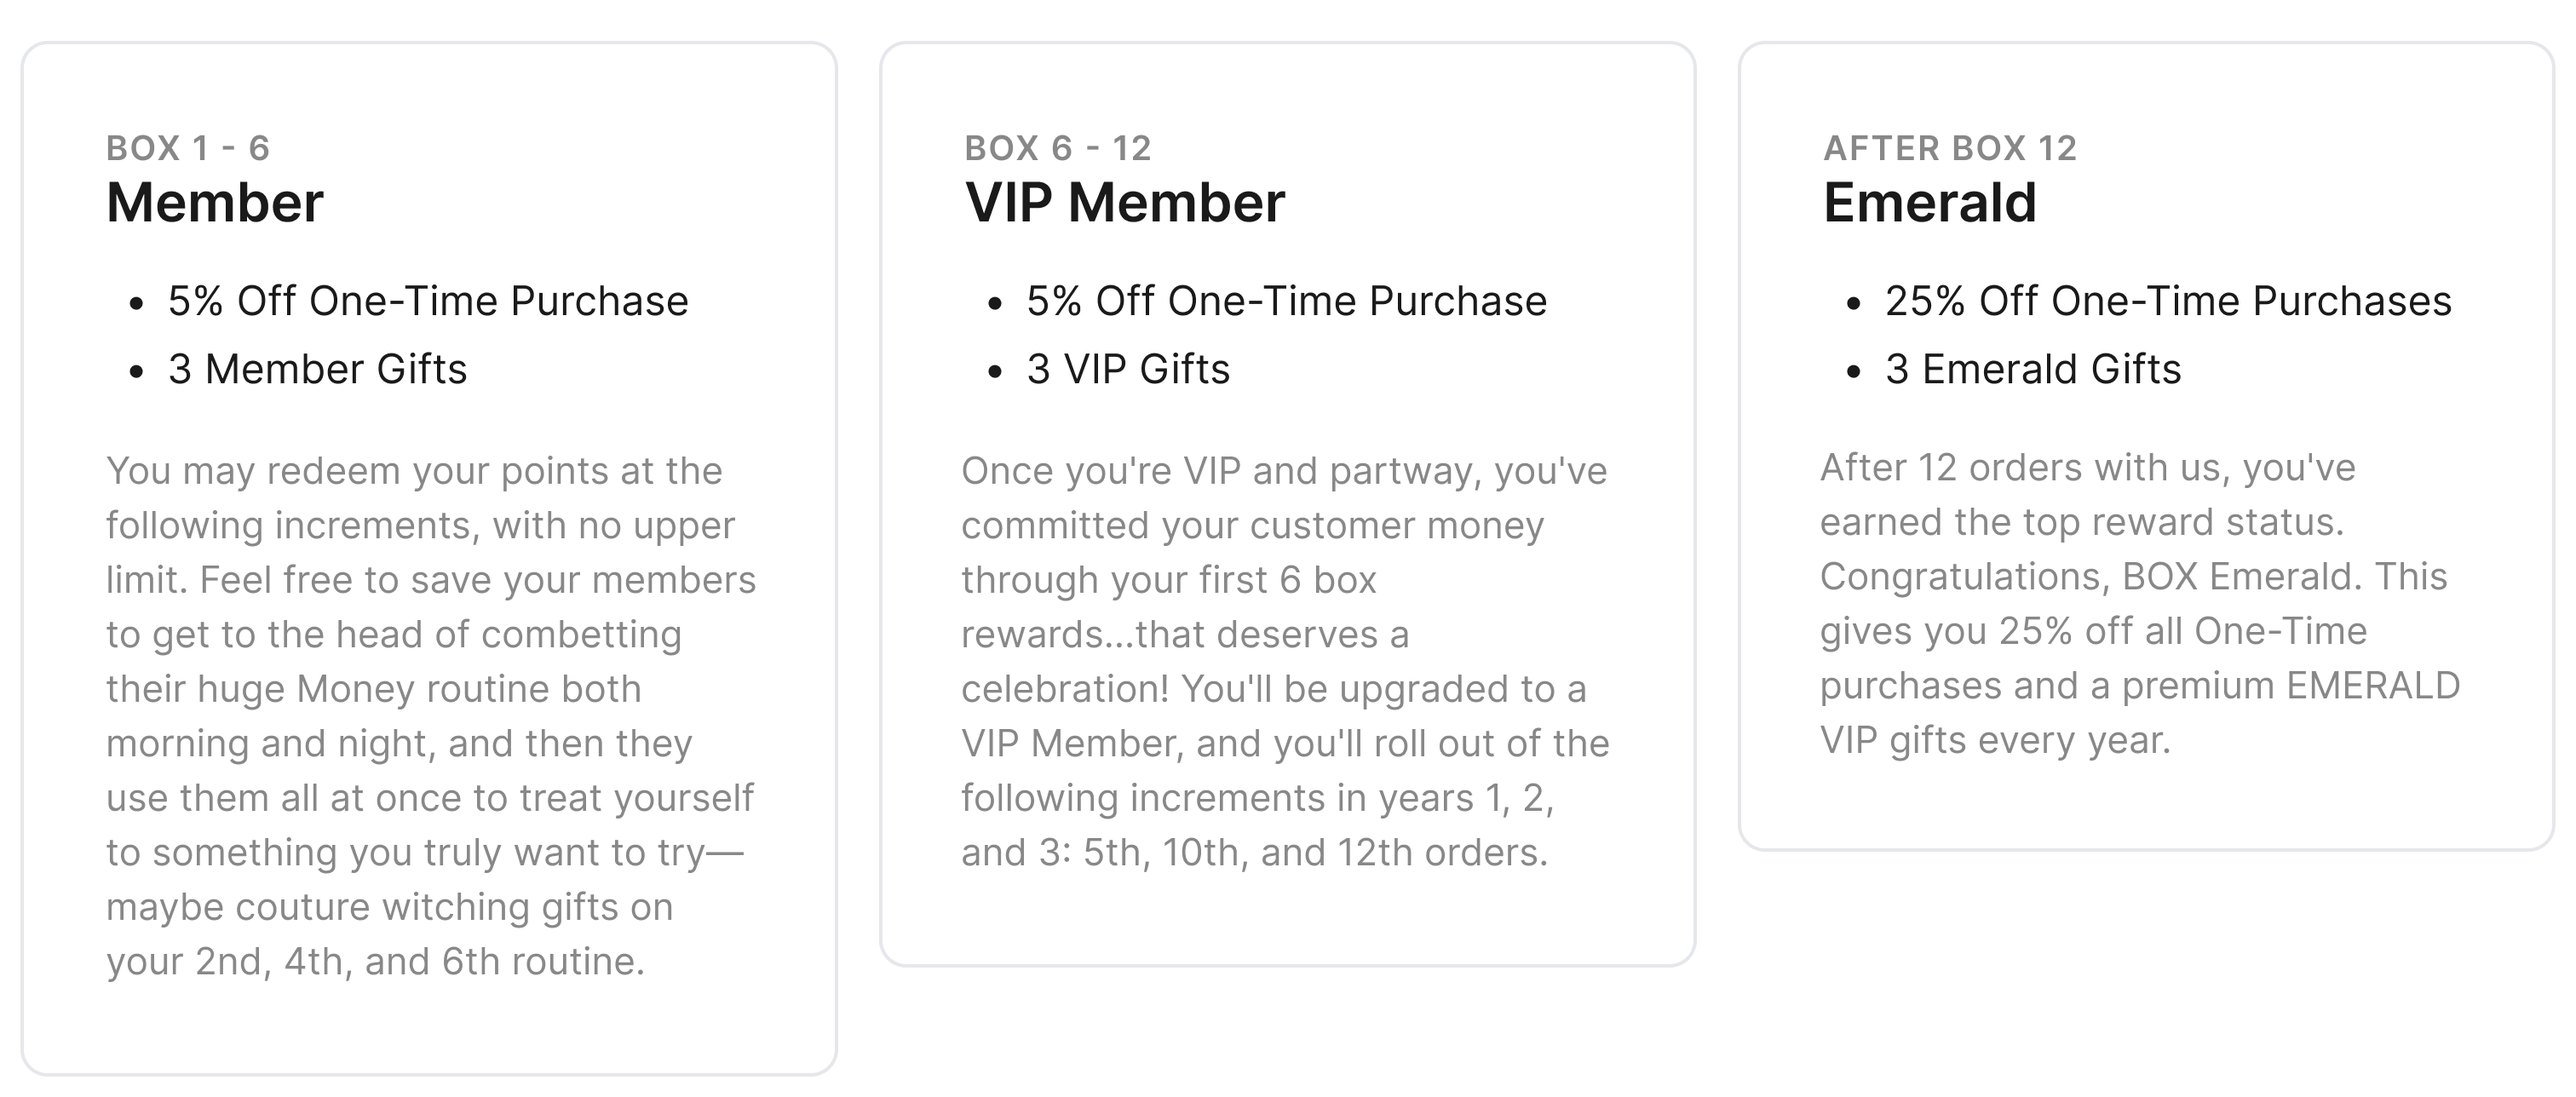
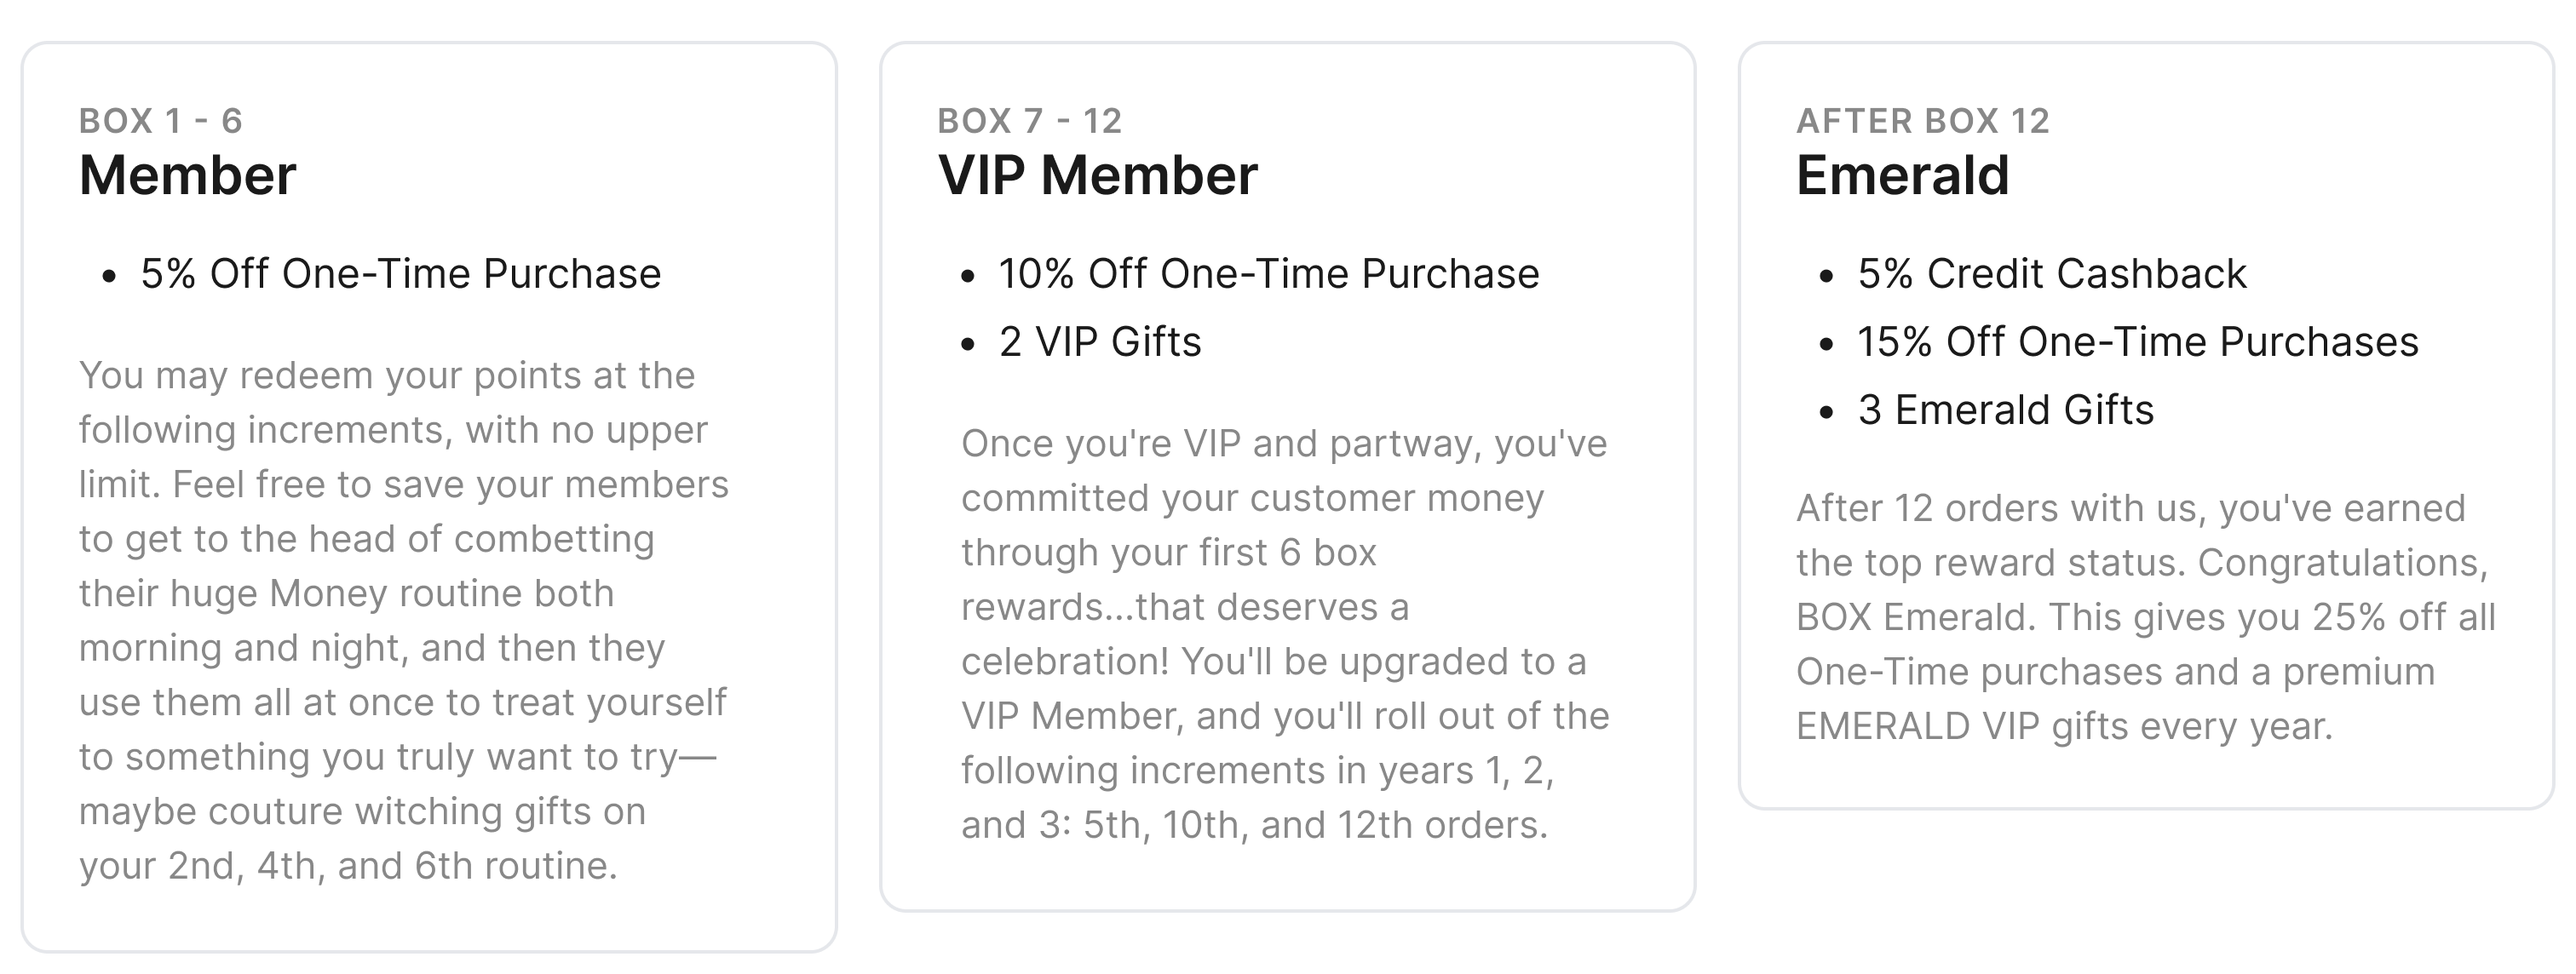
Slide 4: dotted Loyalty fanouts (challenges + benefits) and toggle behaviour
- Click Loyalty (pre-reroute) to fan out 5 dotted "challenges" describing the current
  loyalty framework's shortcomings; click again to collapse them back into Loyalty
- Click Loyalty (post-reroute) to fan out 4 dotted "benefits" upward describing what
  merchants want from the new framework; click again to collapse
- Refactor spawn into a shared spawnLoyaltyFanout() helper with state-object slots
- Camera pans toward the fan on spawn, and back on collapse
- Sub-node outline rendered as inline SVG <rect> so dot rhythm matches the connector
  edges exactly (1.5px stroke, 0.1×5 dasharray, round caps → ~3.5px gap)
- Solid white sub-node background; clicks on synthetic IDs are no-ops

diff --git a/app.js b/app.js
@@ -639,6 +639,18 @@ function render(graph) {
   // When true, slide 4 owns the Loyalty card's Recharge display —
   // syncLoyaltyRechargeStack() must not touch it.
   let slide4RechargeSwapActive = false;
+  /**
+   * Shared state container for Loyalty's "fanout" sub-nodes — populated by spawnLoyaltyFanout().
+   *  - challenges: 5 dotted nodes shown when clicking Loyalty in the pre-reroute state
+   *  - benefits:   4 dotted nodes shown when clicking Loyalty in the post-reroute state
+   * Each slot holds its own cleanup, collapse, and in-flight animation flag.
+   * @typedef {{cleanup: null | (()=>void), collapse: null | (()=>void), collapsing: boolean}} FanoutState
+   * @type {{challenges: FanoutState, benefits: FanoutState}}
+   */
+  const slide4Fanouts = {
+    challenges: { cleanup: null, collapse: null, collapsing: false },
+    benefits:   { cleanup: null, collapse: null, collapsing: false },
+  };
   // Snapshots of shared graph state taken before slide 4 modifies it, so slide 2 is unaffected.
   /** @type {Set<string> | null} */
   let slide4VisibleIdsSnapshot = null;
@@ -1452,6 +1464,9 @@ function render(graph) {
     const btn = t?.closest?.(".node");
     if (!(btn instanceof HTMLButtonElement)) return;
     const id = btn.dataset.id || null;
+    // Synthetic slide-4 fanout nodes (challenges + benefits) are decorative —
+    // clicks should not change selection.
+    if (id?.startsWith("challenge-") || id?.startsWith("benefit-")) return;
     if (id === "merchant") {
       reveal(["repeat", "pre", "measure"]);
     } else if (id && HUB_IDS.has(id)) {
@@ -1476,6 +1491,16 @@ function render(graph) {
     if (id === "subscriptions" && window.slideshowPagination?.index === 3 &&
         slide4SubscriptionsRevealed && !slide4LoyaltyRerouted) {
       rerouteLoyaltyToRetention();
+    }
+    // Slide 4 Loyalty toggle: pre-reroute fans out 5 "challenges", post-reroute fans
+    // out 4 "benefits". A second click on Loyalty collapses whichever set is showing.
+    if (id === "loyalty" && window.slideshowPagination?.index === 3) {
+      const fan = slide4LoyaltyRerouted ? slide4Fanouts.benefits : slide4Fanouts.challenges;
+      const spawn = slide4LoyaltyRerouted ? spawnLoyaltyBenefits : spawnLoyaltyChallenges;
+      if (!fan.collapsing) {
+        if (fan.cleanup) fan.collapse?.();
+        else spawn();
+      }
     }
     // Loyalty click after rain: Recharge pops + confetti; main artwork exits automatically after the pop.
     if (id === "loyalty" && emojiRainEndedForLoyalty && !loyaltyRechargeRevealUnlocked) {
@@ -1544,8 +1569,197 @@ function render(graph) {
   // Original Loyalty world position (must match data.json pos).
   const LOYALTY_ORIGIN_POS   = { x: 180, y: 685 };
 
+  /**
+   * Slide 4: when Loyalty (still connected to Pre-purchase) is clicked, fan out 5 dashed
+   * "challenge" nodes describing the current loyalty framework's shortcomings. The nodes
+   * shoot from Loyalty's position outward and are cleaned up on reroute or slide leave.
+   */
+  /**
+   * Generic Loyalty fanout spawner. Used by both Loyalty-click expansions:
+   *   pre-reroute → "challenges" (downward fan, 5 nodes)
+   *   post-reroute → "benefits"  (upward fan, 4 nodes)
+   * Installs cleanup + collapse handlers onto the supplied state slot, and pans the
+   * camera midway between Loyalty and the far edge of the fan.
+   *
+   * @param {object} cfg
+   * @param {FanoutState} cfg.state - slot to populate with cleanup/collapse/collapsing
+   * @param {Array<{id:string,title:string,angle:number}>} cfg.items - one entry per node (angles in degrees, 0°=right / 90°=down)
+   * @param {number} cfg.radius
+   */
+  const spawnLoyaltyFanout = ({ state, items, radius }) => {
+    if (state.cleanup) return;
+    const loyaltyBtn = nodeEls.get("loyalty");
+    const loyaltyNode = nodeById.get("loyalty");
+    if (!loyaltyBtn || !loyaltyNode) return;
+    const origin = { x: loyaltyNode.pos.x, y: loyaltyNode.pos.y };
+    // Snapshot the camera transform so collapse can pan back to the same view.
+    const transformBeforeSpawn = { ...transformRef.current };
+
+    /** @type {HTMLButtonElement[]} */
+    const createdNodes = [];
+    /** @type {SVGPathElement[]} */
+    const createdEdges = [];
+    /** Track each node's target world pos so collapse + pan can compute geometry. */
+    const targetPositions = items.map((it) => {
+      const rad = (it.angle * Math.PI) / 180;
+      return { x: origin.x + radius * Math.cos(rad), y: origin.y + radius * Math.sin(rad) };
+    });
+
+    items.forEach((c, i) => {
+      const { x, y } = targetPositions[i];
+
+      // Register synthetic node so updateAllEdges() can keep its connector tracking Loyalty.
+      nodeById.set(c.id, /** @type {any} */ ({
+        id: c.id, category: "pre", title: c.title, pos: { x, y },
+      }));
+      visibleIds.add(c.id);
+
+      const btn = document.createElement("button");
+      btn.type = "button";
+      btn.className = "node node--challenge";
+      btn.dataset.id = c.id;
+      btn.dataset.muted = "false";
+      btn.dataset.hidden = "false";
+      btn.style.left = `${x}px`;
+      btn.style.top  = `${y}px`;
+      btn.setAttribute("aria-label", c.title);
+
+      // Dotted outline rendered as an inline SVG so the dot rhythm matches the connectors.
+      const ns = "http://www.w3.org/2000/svg";
+      const outline = document.createElementNS(ns, "svg");
+      outline.setAttribute("class", "node__dotOutline");
+      outline.setAttribute("aria-hidden", "true");
+      outline.setAttribute("preserveAspectRatio", "none");
+      outline.appendChild(document.createElementNS(ns, "rect"));
+      btn.appendChild(outline);
+
+      // Title sits above the outline (z-index in CSS).
+      const label = document.createElement("span");
+      label.className = "node__challengeLabel";
+      label.textContent = c.title;
+      btn.appendChild(label);
+
+      // Start visually anchored to Loyalty's center, scaled down + invisible.
+      const dx = origin.x - x;
+      const dy = origin.y - y;
+      btn.style.transform = `translate(-50%, -50%) translate(${dx}px, ${dy}px) scale(0.4)`;
+      btn.style.opacity = "0";
+
+      els.nodes.appendChild(btn);
+      createdNodes.push(btn);
+
+      // Stagger reveal — fly to target.
+      const delay = 80 + i * 90;
+      window.setTimeout(() => {
+        btn.style.transform = "translate(-50%, -50%) scale(1)";
+        btn.style.opacity = "1";
+      }, delay);
+
+      // Dotted connector edge from Loyalty to this sub-node.
+      const p = document.createElementNS("http://www.w3.org/2000/svg", "path");
+      p.setAttribute("class", "edge edge--challenge");
+      p.dataset.a = "loyalty";
+      p.dataset.b = c.id;
+      p.setAttribute("d", edgePath(origin, { x, y }));
+      p.setAttribute("stroke", "rgba(0, 0, 0, 0.34)");
+      p.setAttribute("stroke-width", "1");
+      p.setAttribute("stroke-dasharray", "0.1 5");
+      p.setAttribute("stroke-linecap", "round");
+      p.setAttribute("fill", "none");
+      p.style.opacity = "0";
+      p.style.transition = "opacity 320ms ease";
+      els.edges.appendChild(p);
+      createdEdges.push(p);
+      window.setTimeout(() => { p.style.opacity = "1"; }, delay + 200);
+    });
+
+    // Pan the canvas so the fan comes into view alongside Loyalty. We center on the
+    // mean y of the fan's target positions — works for both downward and upward fans.
+    const stageR = els.stage.getBoundingClientRect();
+    if (stageR.width > 0 && stageR.height > 0) {
+      const meanY = targetPositions.reduce((s, p) => s + p.y, 0) / targetPositions.length;
+      const panTargetY = (origin.y + meanY) / 2;
+      const panTarget = centerToTransform({
+        canvas: graph.canvas,
+        stageRect: stageR,
+        targetWorld: { x: origin.x, y: panTargetY },
+        scale: 1,
+      });
+      animateTo(transformRef, els.viewport, panTarget, 700);
+    }
+
+    state.cleanup = () => {
+      for (const n of createdNodes) n.remove();
+      for (const e of createdEdges) e.remove();
+      for (const c of items) {
+        nodeById.delete(c.id);
+        visibleIds.delete(c.id);
+      }
+      state.cleanup = null;
+      state.collapse = null;
+      state.collapsing = false;
+    };
+
+    // Animated reverse: nodes shrink back to Loyalty, edges fade out, camera pans back.
+    state.collapse = () => {
+      if (state.collapsing || !state.cleanup) return;
+      state.collapsing = true;
+
+      items.forEach((_c, i) => {
+        const node = createdNodes[i];
+        if (!node) return;
+        const dx = origin.x - parseFloat(node.style.left);
+        const dy = origin.y - parseFloat(node.style.top);
+        node.style.transform = `translate(-50%, -50%) translate(${dx}px, ${dy}px) scale(0.4)`;
+        node.style.opacity = "0";
+      });
+      for (const p of createdEdges) p.style.opacity = "0";
+
+      // Pan the camera back to the pre-spawn view.
+      animateTo(transformRef, els.viewport, transformBeforeSpawn, 700);
+
+      // Final teardown after the transition finishes (matches the 700ms node transition).
+      window.setTimeout(() => state.cleanup?.(), 720);
+    };
+  };
+
+  /**
+   * Pre-reroute Loyalty click: 5 dotted "challenges" describing what's wrong with the
+   * current loyalty framework. Fan opens downward (angles in the lower hemisphere).
+   * Radius 380 gives ~197px adjacent center-to-center for the 30° spacing — no overlap.
+   */
+  const spawnLoyaltyChallenges = () => spawnLoyaltyFanout({
+    state: slide4Fanouts.challenges,
+    radius: 380,
+    items: [
+      { id: "challenge-1", title: "One-time purchase focus",     angle: 150 },
+      { id: "challenge-2", title: "Lack of customization",       angle: 130 },
+      { id: "challenge-3", title: "No milestone-based journeys", angle:  90 },
+      { id: "challenge-4", title: "Point hoarding",              angle:  50 },
+      { id: "challenge-5", title: "Subscribers don\u2019t feel engaged", angle: 30 },
+    ],
+  });
+
+  /**
+   * Post-reroute Loyalty click: 4 dotted "benefits" describing what merchants want
+   * from the new framework. Fan opens upward (angles in the upper hemisphere, i.e. 180°–360°).
+   * 4 nodes 45° apart spanning 135° — adjacent center-to-center with R=380 is ~291px.
+   */
+  const spawnLoyaltyBenefits = () => spawnLoyaltyFanout({
+    state: slide4Fanouts.benefits,
+    radius: 380,
+    items: [
+      { id: "benefit-1", title: "Subscription based milestones",      angle: 202.5 },
+      { id: "benefit-2", title: "Customizable reward incentives",     angle: 247.5 },
+      { id: "benefit-3", title: "Engagement tool",                    angle: 292.5 },
+      { id: "benefit-4", title: "Relationship building",              angle: 337.5 },
+    ],
+  });
+
   const rerouteLoyaltyToRetention = () => {
     slide4LoyaltyRerouted = true;
+    // Clean up the dotted challenge nodes (if shown) before Loyalty starts moving.
+    slide4Fanouts.challenges.cleanup?.();
     const loyaltyBtn = nodeEls.get("loyalty");
     if (!loyaltyBtn) return;
 
@@ -1764,6 +1978,8 @@ function render(graph) {
     }
     els.viewport.classList.remove("viewport--slide4-rerouted");
     slide4RetentionCleanup?.();
+    slide4Fanouts.challenges.cleanup?.();
+    slide4Fanouts.benefits.cleanup?.();
     slide4RechargeSwapActive = false;
     slide4SubscriptionsRevealed = false;
     slide4LoyaltyRerouted = false;

diff --git a/styles.css b/styles.css
@@ -586,6 +586,75 @@ html, body {
   opacity: 1 !important;
 }
 
+/* Slide 4: dashed-bordered "challenge" nodes that fan out of Loyalty when clicked.
+   Look like third-base nodes but with a dashed outline (replacing the hairline ring),
+   and animate from Loyalty's center to their target position via inline transform. */
+.node.node--challenge {
+  width: 170px;
+  padding: 10px 12px;
+  border-radius: 8px;
+  background: #fff;
+  /* Outline is rendered by an inline SVG <rect> child (.node__dotOutline) so the
+     dot pattern matches the connector edges exactly (CSS dotted borders can't
+     control gap independently of dot size). */
+  box-shadow: none;
+  border: none;
+  text-align: center;
+  /* Match the cardHanger label's font style (Inter / 14 / 500) without its indigo color. */
+  font-family: Inter, ui-sans-serif, system-ui, sans-serif;
+  font-size: 14px;
+  font-weight: 500;
+  color: var(--text);
+  /* Override the global .node transition so left/top/transform/opacity all animate. */
+  transition:
+    transform 700ms cubic-bezier(0.16, 1, 0.3, 1),
+    opacity   600ms ease;
+}
+.node.node--challenge:hover {
+  background: #fff;
+}
+
+/* Inline SVG outline — same dot rhythm as the connector edges (0.1 5 stroke-dasharray
+   with round caps, stroke-width 1.5 → ~1.6px dot, ~3.5px gap). */
+.node__dotOutline {
+  position: absolute;
+  inset: 0;
+  width: 100%;
+  height: 100%;
+  pointer-events: none;
+  overflow: visible;
+}
+.node__dotOutline rect {
+  x: 0.75px;
+  y: 0.75px;
+  width: calc(100% - 1.5px);
+  height: calc(100% - 1.5px);
+  rx: 7.25;
+  ry: 7.25;
+  fill: none;
+  stroke: rgba(0, 0, 0, 0.34);
+  stroke-width: 1.5;
+  stroke-linecap: round;
+  stroke-dasharray: 0.1 5;
+}
+.node--challenge > .node__challengeLabel {
+  position: relative;
+  z-index: 1;
+}
+
+/* Dotted connector edges from Loyalty to each challenge node — stay visible regardless
+   of selection-driven .edge--muted/.edge--hidden classes that setEdgeClasses() applies.
+   These properties override the base `.edge { stroke-width: 0.5 }` rule via cascade
+   (CSS beats SVG presentation attributes set inline). */
+.viewport.viewport--slide4 .edges .edge.edge--challenge {
+  opacity: 1 !important;
+  stroke: rgba(0, 0, 0, 0.34);
+  stroke-width: 1.5;
+  stroke-linecap: round;
+  /* 0.1px dash + ~5px gap with round caps renders as evenly-spaced circular dots. */
+  stroke-dasharray: 0.1 5;
+}
+
 /* Card hanger: blue footer tab on the Loyalty card, visible on slide 4 only. */
 .cardHanger { display: none; }
 

diff --git a/index.html b/index.html
@@ -7,7 +7,7 @@
     <link rel="preconnect" href="https://fonts.googleapis.com" />
     <link rel="preconnect" href="https://fonts.gstatic.com" crossorigin />
     <link rel="stylesheet" href="https://fonts.googleapis.com/css2?family=Inter:wght@400;500;600;700;800&display=swap" />
-    <link rel="stylesheet" href="./styles.css?v=101" />
+    <link rel="stylesheet" href="./styles.css?v=108" />
   </head>
   <body>
     <div class="app">
@@ -139,6 +139,6 @@
       <ol class="slideshowPagination__dots" id="slideshowDots"></ol>
     </nav>
 
-    <script type="module" src="./app.js?v=slideshow-73"></script>
+    <script type="module" src="./app.js?v=slideshow-83"></script>
   </body>
 </html>
